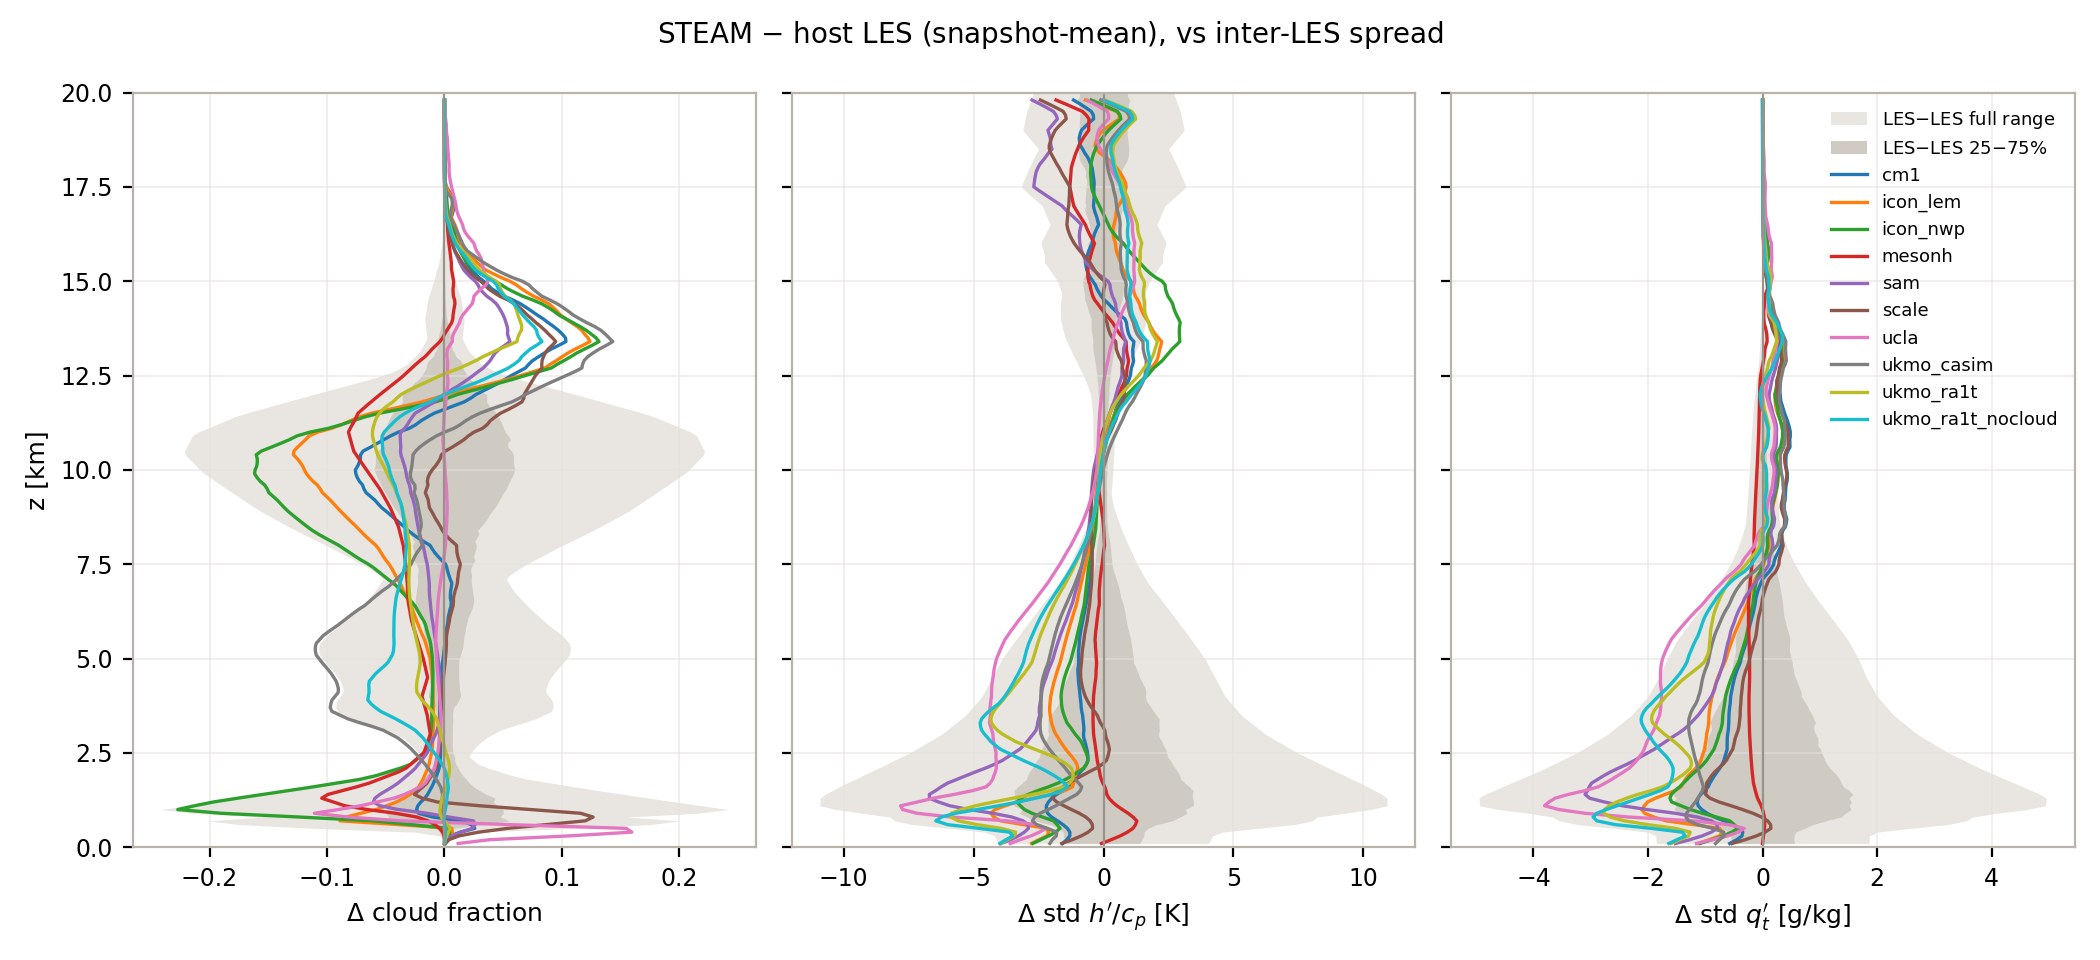
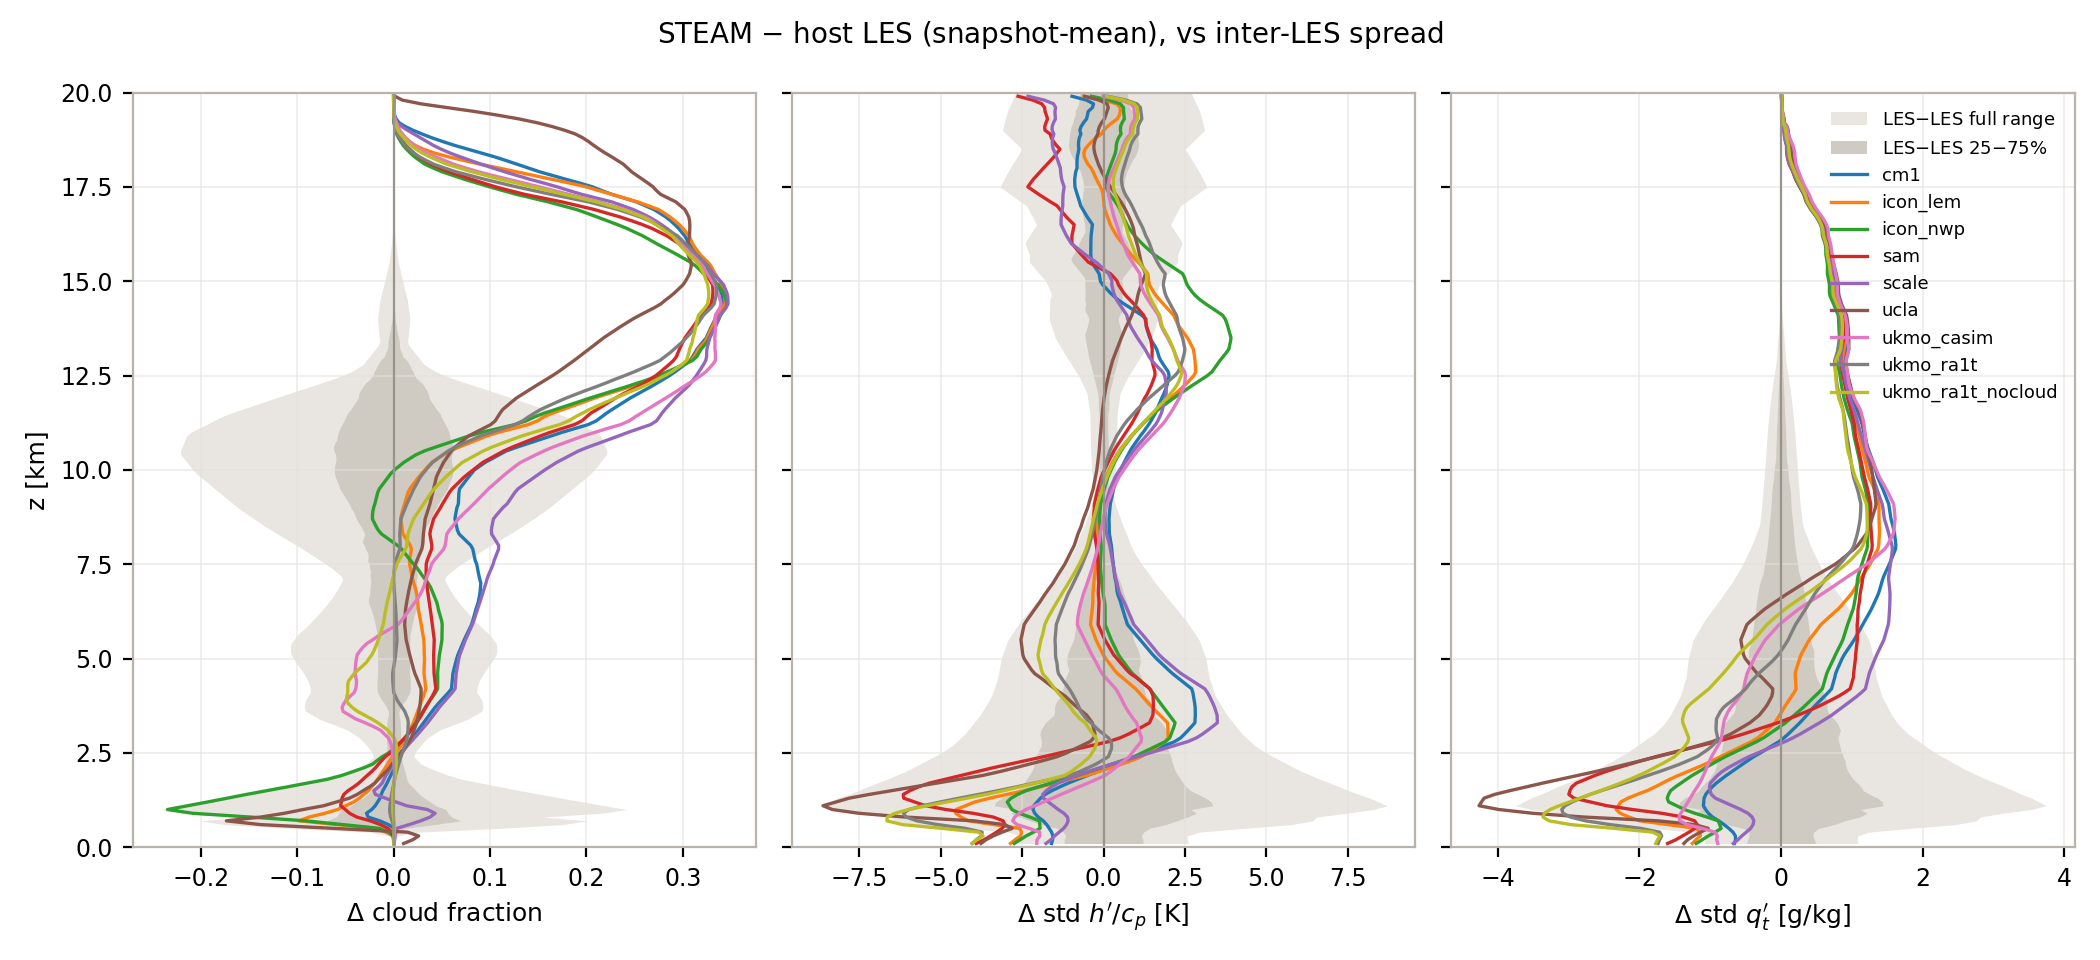
large-domain ensemble runner; regenerated channel figures at H_h=0.45

diff --git a/run_steam_large.py b/run_steam_large.py
@@ -1,0 +1,73 @@
+#!/usr/bin/env python3
+"""Large-domain STEAM ensemble for size distributions (no host comparison).
+
+One 2048 x 1024 run per host profile (snap0), same config as run_steam.py
+otherwise: H_h = 0.45, spheroscale 100 m -> 1 m linear, outer scale 96 km,
+dx = 3 km (domain 6144 x 3072 km). The channel geometry is too narrow for
+size-distribution estimation (DeWitt 2024b), so these wider domains supply
+the paper's cloud size distributions and large-domain fractal dimensions.
+
+Writes runs/steam_large_<model>.nc.
+
+Usage: python run_steam_large.py [model ...]   (default: all with extracted stats)
+"""
+
+import sys
+from pathlib import Path
+
+import numpy as np
+
+# Same H_h override as run_steam.py: steam.simulate reads its module-level
+# H_h at call time; steam/__init__ rebinds the submodule name, so fetch the
+# real module object.
+import importlib
+importlib.import_module("steam.simulate").H_h = 0.45
+
+from steam.simulate import simulate
+from steam.thermodynamics import compute_diagnostics
+from steam.constants import specific_heat_dry_air as cp
+
+HERE = Path(__file__).parent
+STATS = HERE / "stats"
+RUNS = HERE / "runs"
+SPHEROSCALE_SURFACE = 100.0
+SPHEROSCALE_TOP = 1.0
+DOMAIN_HEIGHT = 20000.0
+PROFILE_DZ = 50.0
+
+
+def run_one(model, seed):
+    src = np.load(STATS / f"{model}_snap0.npz")
+    h_profile = src["h_profile"]
+    qt_profile = src["qt_profile"]
+    z = src["z_profile"]
+    spheroscale = SPHEROSCALE_SURFACE + (SPHEROSCALE_TOP - SPHEROSCALE_SURFACE) * z / DOMAIN_HEIGHT
+    RUNS.mkdir(exist_ok=True)
+    out_nc = RUNS / f"steam_large_{model}.nc"
+    simulate(
+        h_profile, qt_profile,
+        nx=2048, ny=1024, dx=3000.0, dy=3000.0,
+        outer_scale=96000.0,
+        spheroscale=spheroscale,
+        anisotropy="piecewise_isotropic_below_spheroscale",
+        domain_height=DOMAIN_HEIGHT,
+        profile_dz=PROFILE_DZ,
+        output_path=str(out_nc),
+        surface_pressure=float(src["surface_pressure"]),
+        seed=seed,
+        h_min=h_profile.min() - 10 * cp,
+        h_max=h_profile.max() + 10 * cp,
+        qt_min=0.0, qt_max=max(0.03, 1.5 * qt_profile.max()),
+        compress=True,
+        device="cuda",
+    )
+    compute_diagnostics(str(out_nc), compress=True)
+    print(f"steam large {model} done")
+
+
+if __name__ == "__main__":
+    models = sys.argv[1:] or sorted({
+        p.name.split("_snap")[0] for p in STATS.glob("*_snap*.npz")
+        if not p.name.startswith("steam_")})
+    for j, model in enumerate(models):
+        run_one(model, seed=2000 + j)
